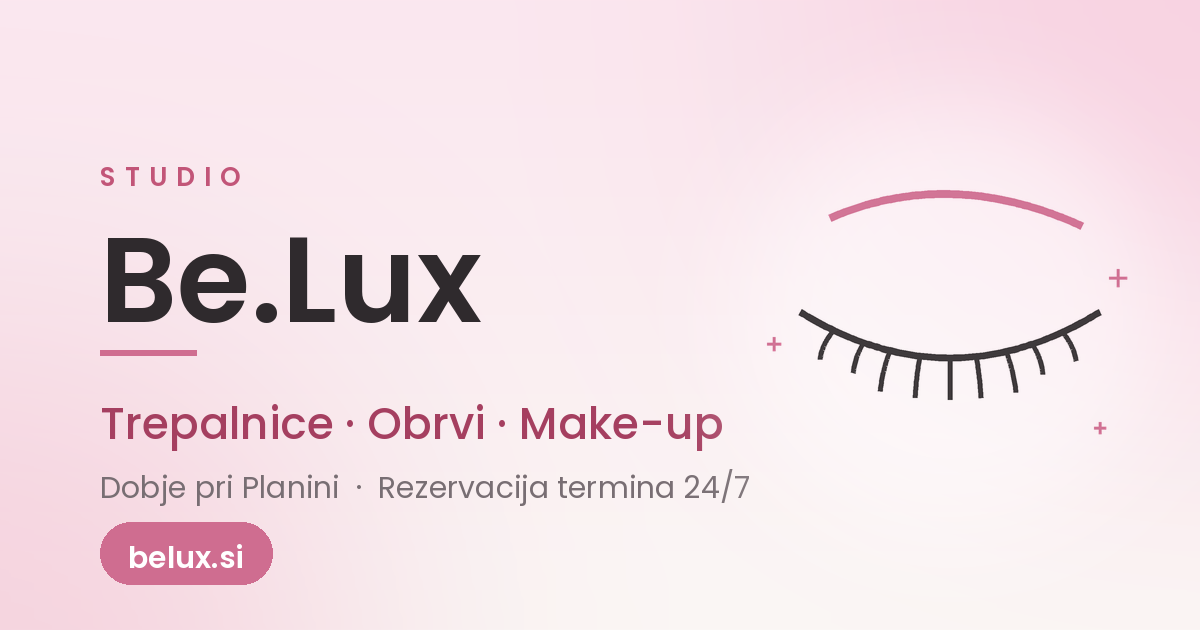
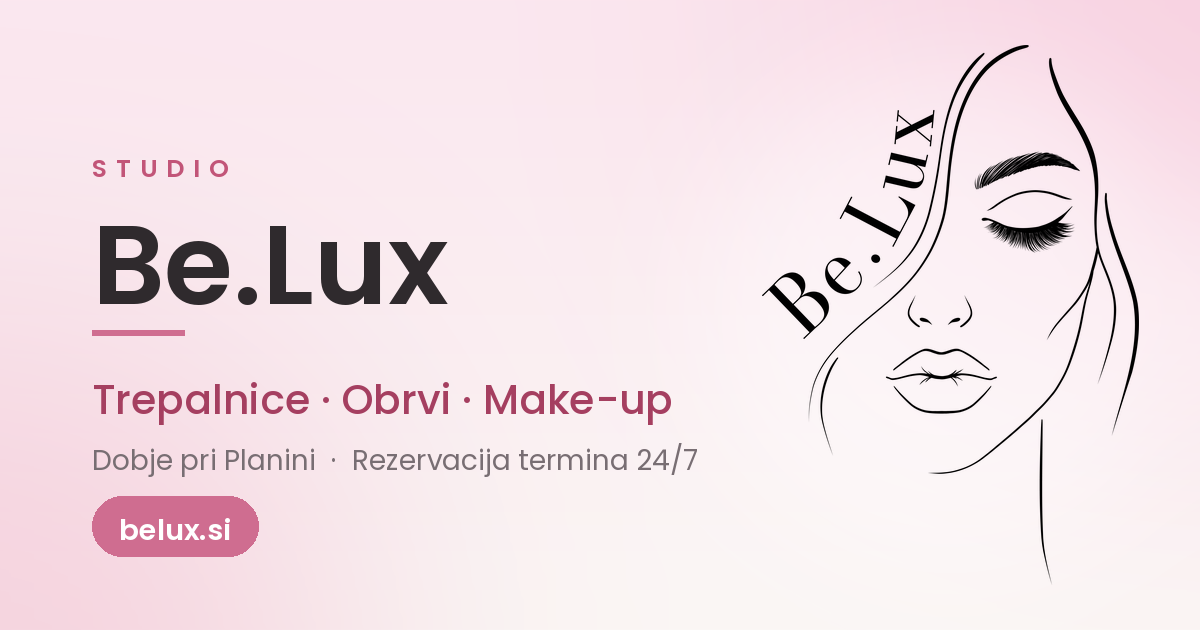
Pravi logotip Be.Lux na strani
- polni logotip v hero sekciji (namizno + mobilno)
- izrez ocesa kot znak v glavi in nogi (fina risba je pri 36px neberljiva)
- bela razlicica znaka za temno nogo
- slika za predogled ob deljenju prerisana s pravim logotipom

Claude-Session: https://claude.ai/code/session_01PxJg7yy3vjoW3ayKMPpyuY

diff --git a/src/app/page.tsx b/src/app/page.tsx
@@ -1,5 +1,6 @@
 import type { Metadata } from "next";
 import Link from "next/link";
+import Image from "next/image";
 import SiteHeader from "@/components/SiteHeader";
 import SiteFooter from "@/components/SiteFooter";
 import { db, tables } from "@/lib/db";
@@ -58,16 +59,16 @@ export default async function Home() {
             </div>
             <p className="mt-6 text-sm text-ink/50">📍 {s.address} · 📞 {s.phone}</p>
           </div>
-          <div className="relative mx-auto hidden h-80 w-80 md:block">
+          <div className="relative mx-auto h-72 w-60 md:h-96 md:w-80">
             <div className="absolute inset-0 rounded-[3rem] bg-white/70 shadow-soft backdrop-blur" />
-            <svg viewBox="0 0 200 200" className="relative h-full w-full p-10" fill="none">
-              <path d="M128 22c-34 4-58 34-58 70 0 30 12 50 12 72" stroke="#2f2a2d" strokeWidth="2.4" strokeLinecap="round" />
-              <path d="M76 92c11-7 28-7 39 0" stroke="#2f2a2d" strokeWidth="2.4" strokeLinecap="round" />
-              <path d="M83 111l-7 8M96 114l-4 10M109 112l3 10" stroke="#2f2a2d" strokeWidth="2" strokeLinecap="round" />
-              <path d="M113 143c-7 5-17 5-24 0M110 158c-5 4-13 4-17 0" stroke="#2f2a2d" strokeWidth="2" strokeLinecap="round" />
-              <path d="M60 56c12-21 38-33 62-28" stroke="#cf6d90" strokeWidth="2.4" strokeLinecap="round" />
-              <text x="52" y="46" fontSize="15" fontFamily="Poppins" fill="#2f2a2d" transform="rotate(-35 52 46)">Be.Lux</text>
-            </svg>
+            <Image
+              src="/belux-logo.png"
+              alt="Logotip studia Be.Lux"
+              width={769}
+              height={1100}
+              priority
+              className="relative h-full w-full object-contain p-8"
+            />
           </div>
         </div>
       </section>

diff --git a/src/components/Logo.tsx b/src/components/Logo.tsx
@@ -1,16 +1,26 @@
 import Link from "next/link";
+import Image from "next/image";
 
+/**
+ * Znak Be.Lux — izrez očesa iz originalnega logotipa.
+ * Pri majhnih velikostih (glava, noga) je celoten obraz preveč drobno risan,
+ * zato uporabimo detajl očesa in ob njem napis Be.Lux.
+ */
 export default function Logo({ light = false, size = "text-2xl" }: { light?: boolean; size?: string }) {
   return (
-    <Link href="/" className={`flex items-center gap-2 font-semibold ${size} ${light ? "text-white" : "text-ink"}`}>
-      <svg viewBox="0 0 48 48" className="h-9 w-9" fill="none" aria-hidden>
-        {/* stiliziran obraz z zaprtim očesom in trepalnicami */}
-        <path d="M30 6c-8 1-14 8-14 17 0 7 3 12 3 17" stroke={light ? "#fff" : "#2f2a2d"} strokeWidth="1.6" strokeLinecap="round" />
-        <path d="M18 22c2.5-1.5 6.5-1.5 9 0" stroke={light ? "#fff" : "#2f2a2d"} strokeWidth="1.6" strokeLinecap="round" />
-        <path d="M20 26.5l-1.8 2M23 27.5l-1 2.4M26 27l0.6 2.4" stroke={light ? "#fff" : "#2f2a2d"} strokeWidth="1.4" strokeLinecap="round" />
-        <path d="M27 34c-1.5 1.2-4 1.2-5.5 0M26 37.5c-1 .8-2.8.8-3.8 0" stroke={light ? "#fff" : "#2f2a2d"} strokeWidth="1.4" strokeLinecap="round" />
-        <path d="M14 14c3-5 9-8 15-7" stroke={light ? "#f0a8c3" : "#cf6d90"} strokeWidth="1.6" strokeLinecap="round" />
-      </svg>
+    <Link
+      href="/"
+      className={`flex items-center gap-2.5 font-semibold ${size} ${light ? "text-white" : "text-ink"}`}
+    >
+      <Image
+        src={light ? "/belux-mark-white.png" : "/belux-mark.png"}
+        alt=""
+        width={199}
+        height={220}
+        priority
+        aria-hidden
+        className="h-9 w-auto"
+      />
       <span>
         Be<span className="text-belux-500">.</span>Lux
       </span>
